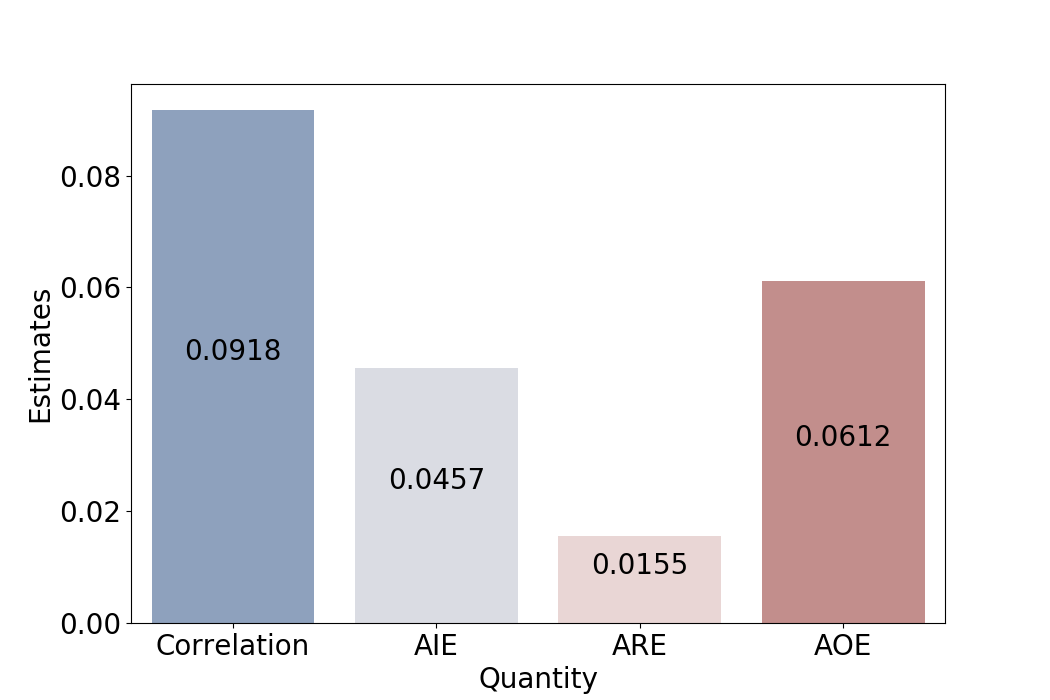
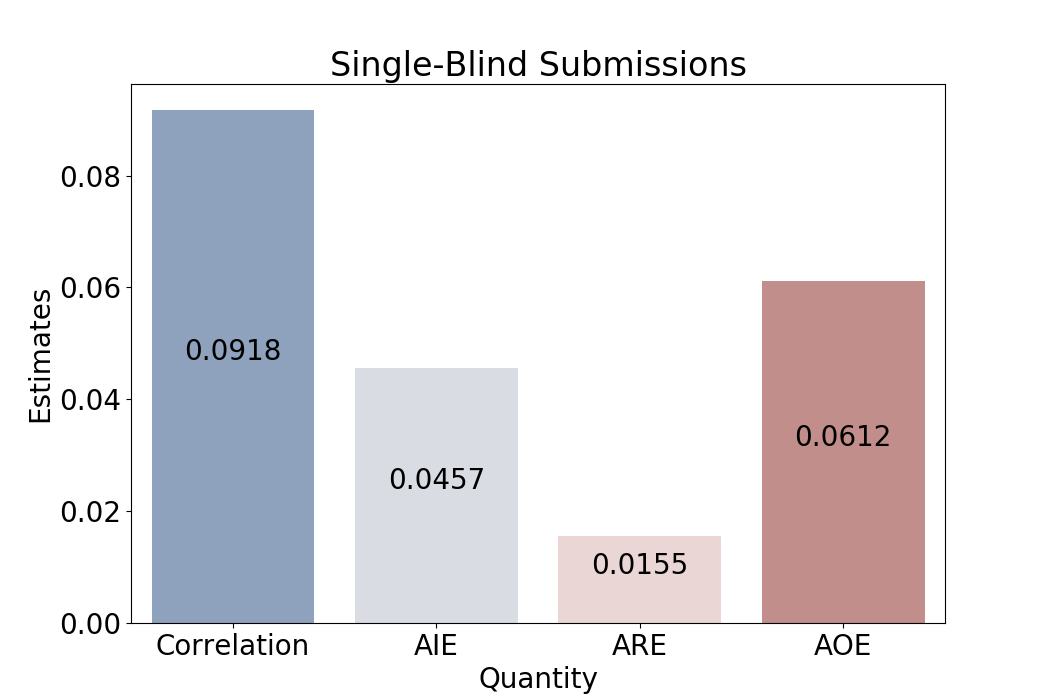
fig

Changed region(s): [[0.3048, 0.06, 0.7314, 0.12]]

diff --git a/experiments/estimate_real_data.py b/experiments/estimate_real_data.py
@@ -131,7 +131,7 @@ for p in splot.patches:
 #sns.distplot(tau_single,hist=False,kde_kws={'bw':0.4,'shade': True})
 #sns.distplot(tau_double,hist=False,kde_kws={'bw':0.4,'shade': True})
 
-plt.axvhline(y=0,color='y')
+plt.axhline(y=0,color='black',alpha=0.3)
 #plt.axvline(cc_d,color='c')
 #plt.xlim((-1,1))
 #plt.xlabel('estimated CATEs')
@@ -219,4 +219,5 @@ df_ce['Estimates'] = [np.corrcoef(dsa['prestige'],dsa['review'])[0,1],np.mean(li
 splot = sns.barplot(x='Quantity',y='Estimates',data=df_ce,palette='vlag' )
 for p in splot.patches:
     splot.annotate(format(p.get_height(), '.4f'), (p.get_x() + p.get_width() / 2., p.get_height()/2), ha = 'center', va = 'center', xytext = (0, 10), textcoords = 'offset points')
+plt.title('Single=Blind Submissions')
 fig.savefig('Figures/box_real_a.png')

diff --git a/experiments/estimation.py b/experiments/estimation.py
@@ -1188,7 +1188,8 @@ for cov in embedding_needed_covariates:
     X_cov = df_unit_table_1[cov]
     output = learn_moment_summary(X_cov,y,learn_type='regression',max_moment=7)
     embedding_cov.append( lambda x: moment_summarization([x],level=output[1])[0,:] ) 
-    
+
+df
 
 df_unit_table = {}
 for i in range(n_paper):
